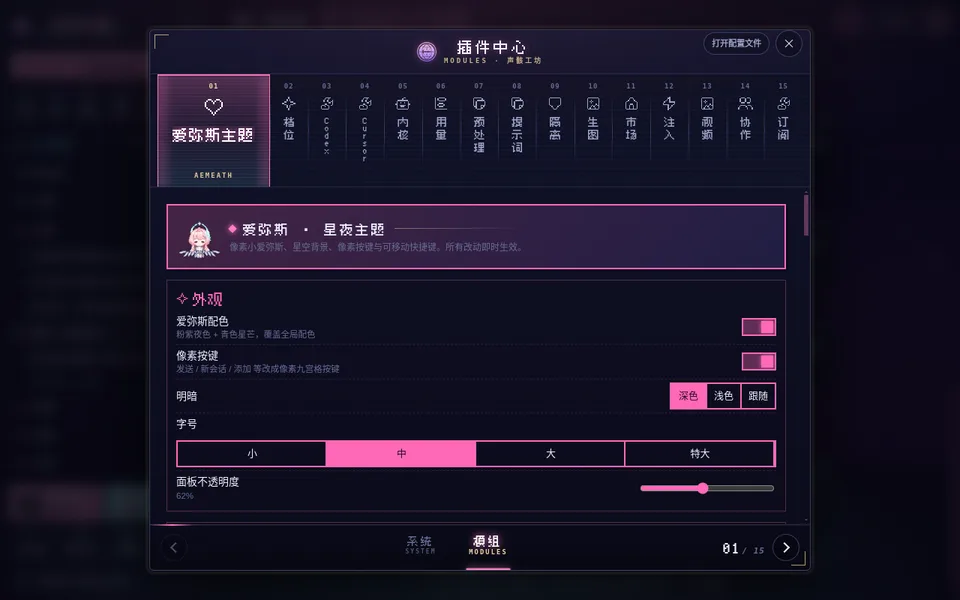
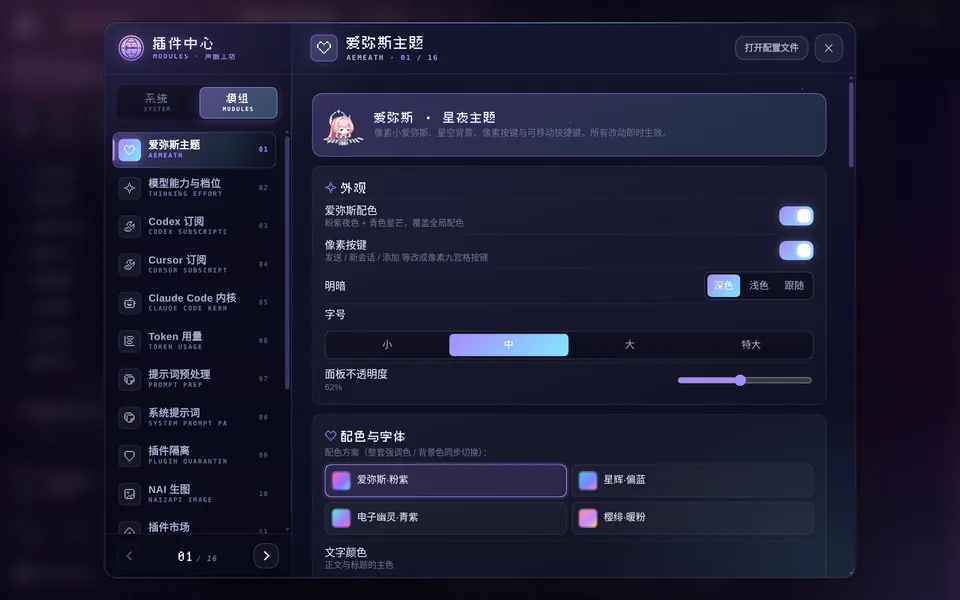
docs: refresh screenshots for v1.1.0
Retake desktop and phone screenshots with the starlight UI, add desktop and
phone home page shots, and note that all content shown is demo data.

diff --git a/README.md b/README.md
@@ -4,13 +4,19 @@
 
 给 [DeepSeek Harness](https://github.com/deepseek-ai/deepseek-harness) Web 界面用的全局主题插件：像素小爱弥斯、星夜背景、像素按键、鸣潮风格的过程名称、频段柱式设置页，以及「永远的启明星」配色的思考强度光刃。手机和电脑都适配。
 
-| 电脑 · 聊天页 | 电脑 · 系统设置 |
+| 电脑 · 欢迎页 | 电脑 · 聊天页 |
 |---|---|
-| ![](docs/desktop-chat.webp) | ![](docs/desktop-settings-system.webp) |
+| ![](docs/desktop-home.webp) | ![](docs/desktop-chat.webp) |
 
-| 手机 · 聊天页 | 手机 · 侧栏 | 电脑 · 插件中心 |
+| 电脑 · 系统设置 | 电脑 · 插件中心 |
+|---|---|
+| ![](docs/desktop-settings-system.webp) | ![](docs/desktop-settings-modules.webp) |
+
+| 手机 · 欢迎页 | 手机 · 侧栏 | 手机 · 聊天页 |
 |---|---|---|
-| ![](docs/phone-chat.webp) | ![](docs/phone-sidebar.webp) | ![](docs/desktop-settings-modules.webp) |
+| ![](docs/phone-home.webp) | ![](docs/phone-sidebar.webp) | ![](docs/phone-chat.webp) |
+
+截图中的工作区、会话与对话均为演示内容。
 
 ## 功能
 
